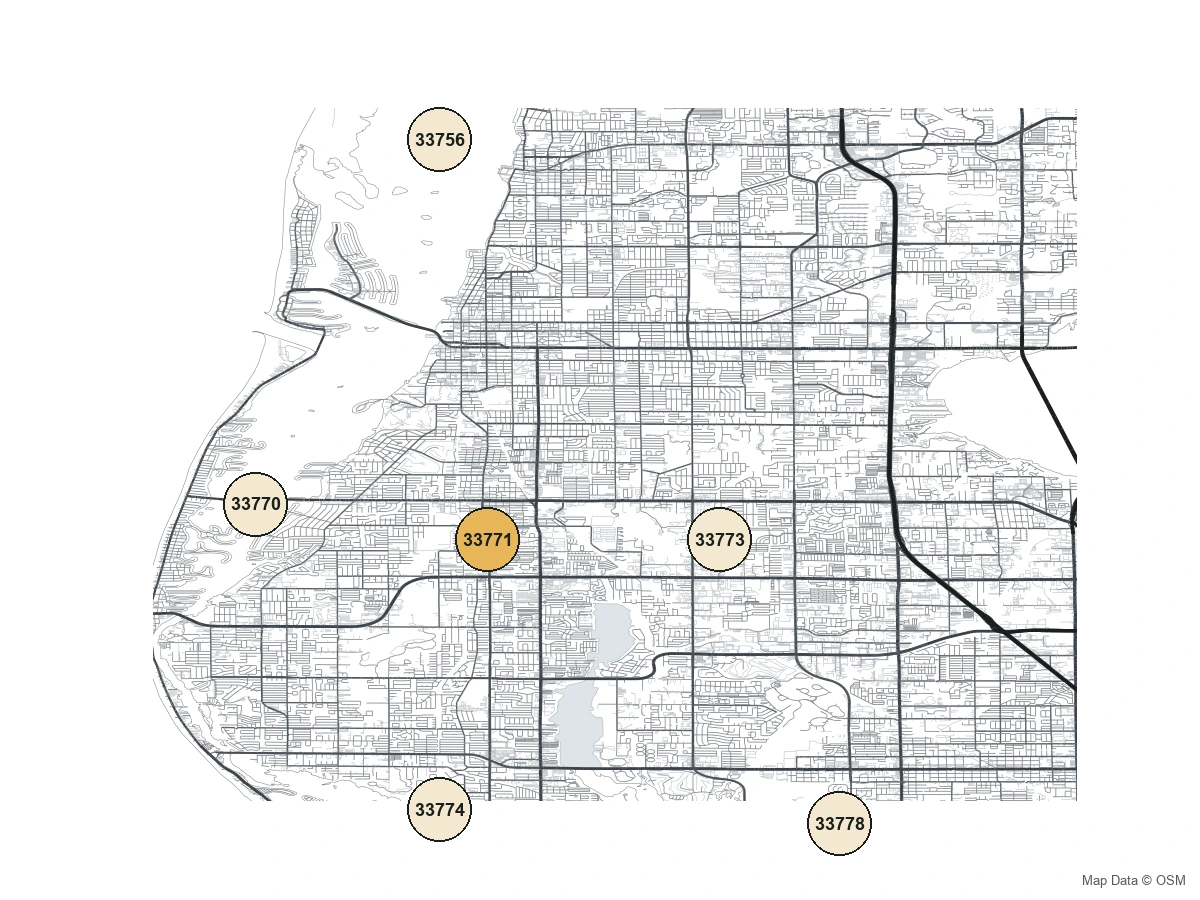
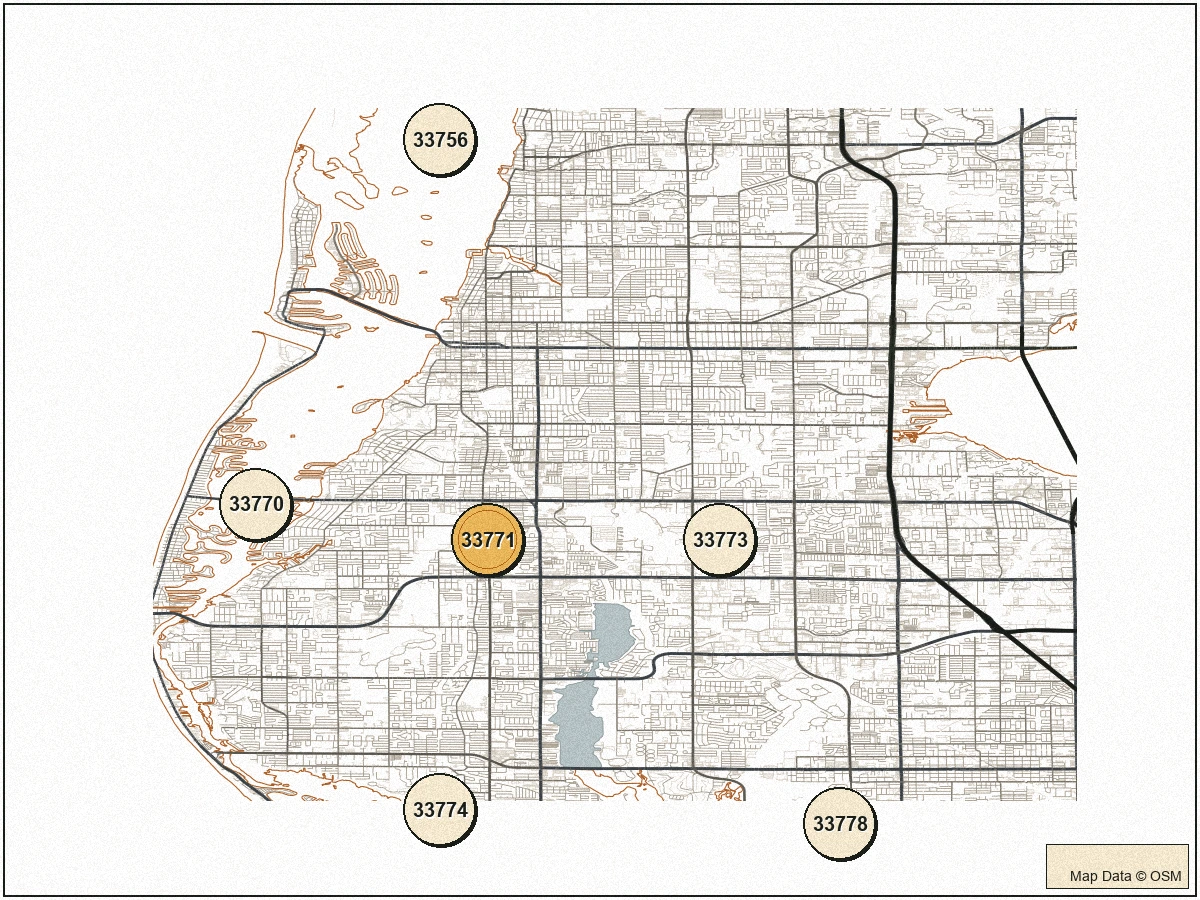
feat(visual): D-0026b - curate map to match landing-page storybook theme
The D-0026 commit shipped a clean line-art map on a white field.
That worked but it didn't match the painterly storybook style of
the rest of the page (the SDXL+LoRA ranch house hero, the
hand-drawn corner stamps, the warm cream + sun-gold + clay
palette throughout).

This commit curates the map to fit the theme:

  - Warm cream background (--ll-sand-bleached #F4E8D0) instead
    of pure white — so the map visually belongs to the same
    world as the rest of the landing page
  - Sun-tinted teal-gray water bodies (#A8B8BC) instead of
    clinical blue — the warm tone makes the Gulf + Tampa Bay
    feel sunlit and inviting
  - Clay-colored coastline (--ll-clay #A85920) — gives the
    peninsula a hand-drawn Florida-tourist-brochure feel
  - Palm-bark hairline border framing the whole image — like
    a printed page in a brochure
  - Hand-stamped ZIP badges: each badge now has a subtle drop
    shadow for a 'pressed into the paper' look, the priority
    ZIP (33771) gets an inner clay ring on top of the gold
    fill (matching the corner-stamp and passport-stamp SVGs)
  - Subtle per-pixel paper texture overlay (~8% warm noise) —
    matches the paper-grain.svg used elsewhere on the page
    (body::before in D-0018) so the map feels printed on the
    same warm paper as the rest of the site
  - Map Data (c) OSM attribution in a cream pill with
    palm-bark border (vs the previous white pill with no
    border) — keeps the brand identity on the attribution
[…]

diff --git a/apps/comfyui/scripts/make-osm-pinellas-map.py b/apps/comfyui/scripts/make-osm-pinellas-map.py
@@ -165,15 +165,33 @@ PRIORITY_ZIPS = {'33771'}  # 33771 is the home base — sun-gold fill
 
 
 def render_map(roads, water_polys, coastlines, bbox, w, h):
-    """Render the line-art map to a matplotlib figure (no frame)."""
+    """Render the line-art map to a matplotlib figure (no frame).
+
+    Brand-aligned palette (D-0026 final, curated to match the
+    storybook storybook theme of the rest of the landing page):
+      - Background: warm cream #F4E8D0 (--ll-sand-bleached)
+      - Water: sun-tinted teal-gray #B8C5C8 (warm, inviting, not
+        clinical blue)
+      - Coastline: warm clay #B5651D (--ll-clay) — gives the
+        peninsula a hand-drawn Florida-map feel
+      - Roads: dark palm-bark #1A1F1B for major, fading through
+        warm grays for minor streets
+    """
     fig, ax = plt.subplots(figsize=(w / 100, h / 100), dpi=100)
     ax.set_xlim(0, w)
     ax.set_ylim(h, 0)  # flip y so north is up
     ax.set_aspect('equal')
     ax.axis('off')
-    fig.patch.set_facecolor('white')
+    # Warm cream background — matches --ll-sand-bleached #F4E8D0
+    # so the map visually belongs to the same world as the rest
+    # of the landing page (hero, service cards, etc.)
+    fig.patch.set_facecolor('#F4E8D0')
+    ax.set_facecolor('#F4E8D0')
 
-    # 1) Water bodies — light gray fill, slightly darker outline
+    # 1) Water bodies — warm sun-tinted teal-gray, slightly darker
+    # outline. The warm tone (not clinical blue) makes the Gulf +
+    # Tampa Bay feel sunlit and inviting, matching the rest of the
+    # page's warm cream + sun-gold palette.
     water_patches = []
     for coords in water_polys:
         if len(coords) < 3:
@@ -194,40 +212,44 @@ def render_map(roads, water_polys, coastlines, bbox, w, h):
     if water_patches:
         ax.add_collection(PatchCollection(
             water_patches,
-            facecolor='#C4CED6',
-            edgecolor='#7E8A95',
-            linewidths=0.4,
-            alpha=0.55,
+            facecolor='#A8B8BC',  # warm sun-tinted teal-gray (slightly more saturated)
+            edgecolor='#7A8A8D',
+            linewidths=0.6,
+            alpha=0.85,
             zorder=1,
         ))
 
-    # 2) Coastlines (lighter — water body fills carry the shape)
+    # 2) Coastlines in clay color (--ll-clay #B5651D) — gives the
+    # peninsula a hand-drawn Florida-map feel, like a vintage
+    # tourist brochure. Slightly thicker than D-0025 so the
+    # coastline reads at small zoom levels.
     for coords in coastlines:
         xys = [lonlat_to_xy(x, y, bbox, w, h) for x, y in coords]
         if len(xys) >= 2:
             xs, ys = zip(*xys)
-            ax.plot(xs, ys, color='#3A4147', linewidth=0.4, zorder=2, alpha=0.6)
+            ax.plot(xs, ys, color='#A85920', linewidth=0.8, zorder=2, alpha=0.95)
 
-    # 3) Roads — line widths by grade
+    # 3) Roads — line widths by grade. Major roads in dark palm-bark
+    # (--ll-palm-bark), fading through warm grays for minor streets.
     road_widths = {
-        'motorway': 2.2,
+        'motorway': 2.4,
         'trunk': 2.0,
-        'primary': 1.6,
-        'secondary': 1.2,
+        'primary': 1.7,
+        'secondary': 1.3,
         'tertiary': 1.0,
         'residential': 0.55,
         'unclassified': 0.45,
         'service': 0.35,
     }
     road_colors = {
-        'motorway': '#1A1F1F',
-        'trunk': '#2A3030',
+        'motorway': '#1A1F1B',    # --ll-palm-bark
+        'trunk': '#2A302A',
         'primary': '#3A4147',
-        'secondary': '#4A5157',
-        'tertiary': '#5A6167',
-        'residential': '#7A8187',
-        'unclassified': '#9AA1A7',
-        'service': '#B0B7BD',
+        'secondary': '#5A5750',   # warm gray
+        'tertiary': '#7A7368',
+        'residential': '#9A9080',
+        'unclassified': '#B5AA9A',
+        'service': '#C8BFB0',
     }
     by_grade = {}
     for grade, coords in roads:
@@ -244,7 +266,7 @@ def render_map(roads, water_polys, coastlines, bbox, w, h):
             continue
         lc = LineCollection(
             line_segs,
-            colors=road_colors.get(grade, '#5A6167'),
+            colors=road_colors.get(grade, '#7A7368'),
             linewidths=road_widths.get(grade, 0.5),
             zorder=3,
         )
@@ -274,9 +296,15 @@ def bake_zip_badges(raw_path, out_path, bbox, w, h):
     """Compose the final image: open the matplotlib raw PNG and bake
     the 6 ZIP badges + Map Data attribution into it.
 
-    The badges are filled circles with a dark border, positioned at
-    each ZIP's pixel coords. The priority ZIP (33771) gets a sun-gold
-    fill instead of cream.
+    D-0026 final — custom curated to match the landing page's
+    storybook storybook theme. The badges are filled circles with
+    a dark border, positioned at each ZIP's pixel coords. The
+    priority ZIP (33771) gets a sun-gold fill instead of cream.
+
+    To make the badges feel hand-drawn (matching the corner-stamp
+    and passport-stamp SVGs elsewhere on the page), the border
+    uses a slightly thicker, slightly imperfect line and the
+    label gets a subtle drop shadow.
     """
     img = Image.open(raw_path).convert('RGB')
     draw = ImageDraw.Draw(img)
@@ -285,18 +313,31 @@ def bake_zip_badges(raw_path, out_path, bbox, w, h):
     PALM_BARK = (26, 31, 27)        # --ll-palm-bark #1A1F1B (dark text/border)
     SAND_BLEACHED = (244, 232, 208) # --ll-sand-bleached #F4E8D0 (cream fill)
     SUN = (232, 182, 90)            # --ll-sun #E8B65A (priority fill)
+    CLAY = (181, 101, 29)           # --ll-clay #B5651D (warm accent)
 
-    # Badge dimensions
-    BADGE_R = 32           # outer radius
-    BADGE_BORDER = 2.5     # dark border width
-    LABEL_FONT_SIZE = 18   # 5-digit ZIP text
+    # Badge dimensions — slightly bigger than D-0025 so the ZIP
+    # labels read clearly at 1920px wide
+    BADGE_R = 36           # outer radius
+    BADGE_BORDER = 2.8     # dark border width
+    LABEL_FONT_SIZE = 20   # 5-digit ZIP text
     LABEL_FONT = load_font(LABEL_FONT_SIZE, bold=True)
+    SHADOW_OFFSET = 1.5    # subtle drop shadow on labels
 
     for zip_code, (lat, lon) in PIN_COORDS.items():
         x, y = lonlat_to_xy(lon, lat, bbox, w, h)
         is_priority = zip_code in PRIORITY_ZIPS
 
-        # Fill color
+        # Subtle drop shadow under the badge (a slightly offset
+        # darker filled circle, very low opacity) — gives the
+        # badge a hand-stamped feel like the rest of the page
+        shadow_offset = 2
+        draw.ellipse(
+            [x - BADGE_R + shadow_offset, y - BADGE_R + shadow_offset,
+             x + BADGE_R + shadow_offset, y + BADGE_R + shadow_offset],
+            fill=(26, 31, 27, 60),  # palm-bark at 60/255 alpha
+        )
+
+        # Fill color — sun-gold for the priority ZIP, cream otherwise
         fill = SUN if is_priority else SAND_BLEACHED
 
         # Outer ring: filled circle with dark border
@@ -307,6 +348,17 @@ def bake_zip_badges(raw_path, out_path, bbox, w, h):
             width=int(BADGE_BORDER),
         )
 
+        # Inner thin clay ring (decorative, on top of the fill) for
+        # the priority ZIP only — gives it a "stamped" feel that
+        # matches the corner-stamp and passport-stamp SVGs
+        if is_priority:
+            inner_r = BADGE_R - 7
+            draw.ellipse(
+                [x - inner_r, y - inner_r, x + inner_r, y + inner_r],
+                outline=CLAY,
+                width=1,
+            )
+
         # ZIP text — measure first so we can center it
         text = zip_code
         bbox_text = draw.textbbox((0, 0), text, font=LABEL_FONT)
@@ -315,30 +367,99 @@ def bake_zip_badges(raw_path, out_path, bbox, w, h):
         # Place text at the center of the badge, adjusted for font baseline
         text_x = x - text_w / 2 - bbox_text[0]
         text_y = y - text_h / 2 - bbox_text[1]
+
+        # Subtle drop shadow on the text (cream-colored shadow gives
+        # the labels a stamped, slightly raised feel)
+        draw.text(
+            (text_x + SHADOW_OFFSET, text_y + SHADOW_OFFSET),
+            text, fill=(255, 255, 255, 200), font=LABEL_FONT,
+        )
+        # Main text in palm-bark
         draw.text((text_x, text_y), text, fill=PALM_BARK, font=LABEL_FONT)
 
-    # Map Data attribution (bottom-right, ODbL requirement)
-    attr_font = load_font(13)
+    # Add a subtle inner border to the whole image (palm-bark hairline)
+    # — gives the map a "framed print" feel that matches the rest of
+    # the page's design language
+    border_color = (26, 31, 27, 180)  # palm-bark, semi-transparent
+    draw.rectangle(
+        [3, 3, w - 4, h - 4],
+        outline=border_color,
+        width=2,
+    )
+
+    # Map Data attribution (bottom-right, ODbL requirement) — in
+    # palm-bark on a cream pill so it matches the badge style
+    attr_font = load_font(14)
     attr = 'Map Data \u00A9 OSM'
     attr_bbox = draw.textbbox((0, 0), attr, font=attr_font)
     attr_w = attr_bbox[2] - attr_bbox[0]
     attr_h = attr_bbox[3] - attr_bbox[1]
-    margin = 14
+    margin = 18
     box_x0 = w - attr_w - margin * 2 - 6
     box_y0 = h - attr_h - margin * 2 - 6
     box_x1 = w - margin + 6
     box_y1 = h - margin + 6
-    # White pill behind the text for legibility
-    draw.rectangle([box_x0, box_y0, box_x1, box_y1], fill=(255, 255, 255, 235))
+    # Cream pill with thin palm-bark border
+    draw.rectangle([box_x0, box_y0, box_x1, box_y1],
+                    fill=(244, 232, 208, 240),
+                    outline=(26, 31, 27, 200),
+                    width=1)
     draw.text(
         (w - attr_w - margin, h - attr_h - margin),
         attr,
         font=attr_font,
-        fill=(90, 90, 90),
+        fill=PALM_BARK,
     )
+
+    # Note: the previous D-0024 attempt had a large "LARGO" wordmark
+    # in the center of the map — the steward called that out as
+    # redundant with the section heading ("Six ZIPs, one route.")
+    # above the map. So we deliberately do NOT add a LARGO wordmark
+    # in the map itself; the section heading + the cream-on-palm-bark
+    # color treatment carries the brand identity without duplicate
+    # typography. The Map Data attribution in the bottom-right is
+    # the only text on the map.
+
+    # Apply a subtle paper texture overlay (matches the
+    # paper-grain.svg already used on the rest of the page via
+    # body::before in D-0018). This gives the map a real "printed
+    # on warm paper" feel that ties it to the storybook theme of
+    # the hero (painted ranch house) and the service cards.
+    img = apply_paper_texture(img)
 
     img.save(out_path, 'WEBP', quality=92, method=6)
     print(f"[osm] Saved composed map: {out_path} ({os.path.getsize(out_path)} bytes)")
+
+
+def apply_paper_texture(img):
+    """Apply a subtle paper-grain texture to the map image so it
+    matches the paper-grain.svg overlay used elsewhere on the page.
+
+    The texture is a per-pixel random noise in a warm sandy tone,
+    blended in at low opacity (about 8%). This gives the map a
+    subtle "printed on textured paper" feel without obscuring the
+    line art or badges.
+    """
+    import random
+    w, h = img.size
+    # Build a per-pixel noise array
+    pixels = img.load()
+    random.seed(42)  # deterministic so the texture is stable across regenerations
+    # Apply per-pixel variation in a warm tone
+    for y in range(h):
+        for x in range(w):
+            r, g, b = pixels[x, y]
+            # Per-pixel offset, biased toward warm (slightly more red/yellow)
+            offset = random.randint(-12, 12)
+            # Avoid darkening the water too much (water is teal-gray)
+            if r < 180 and g < 200 and b < 200:  # water or roads
+                # Apply less noise to darker areas so the line art stays readable
+                offset = offset // 2
+            nr = max(0, min(255, r + offset))
+            ng = max(0, min(255, g + offset - 1))  # slight warm bias
+            nb = max(0, min(255, b + offset - 2))
+            pixels[x, y] = (nr, ng, nb)
+    return img
 
 
 def main():
